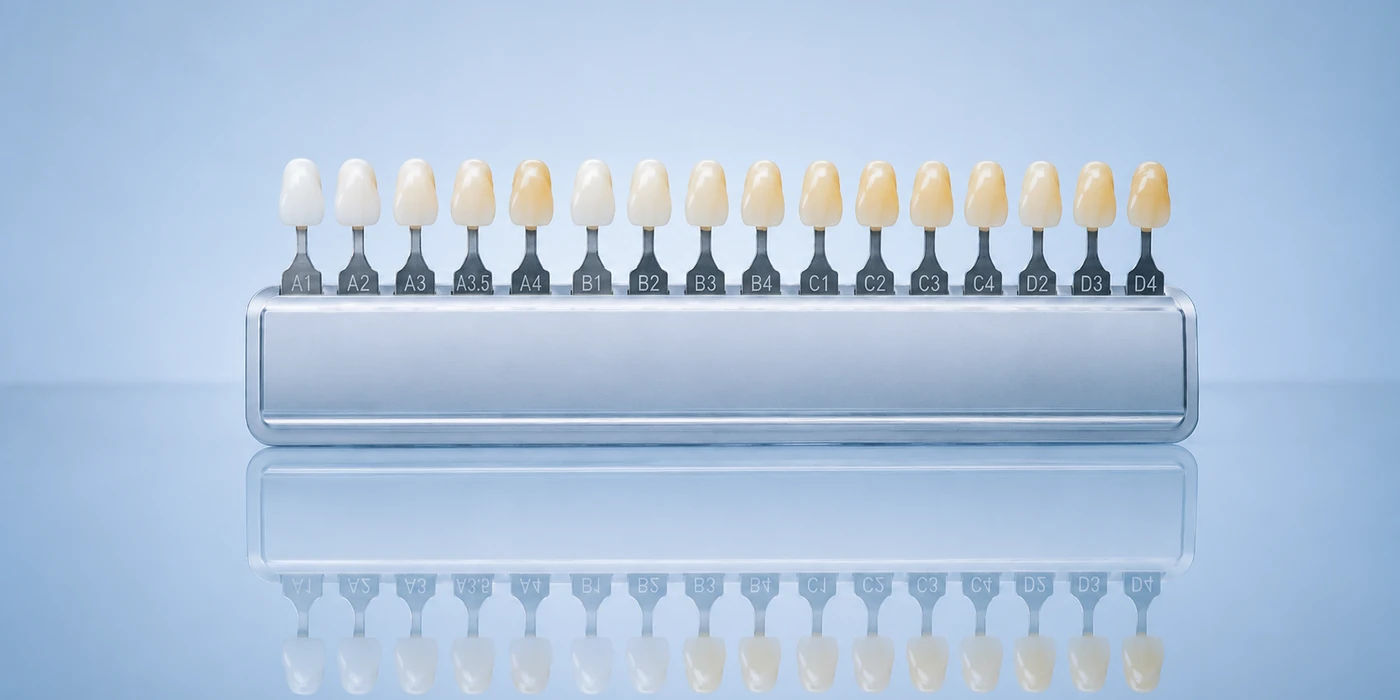
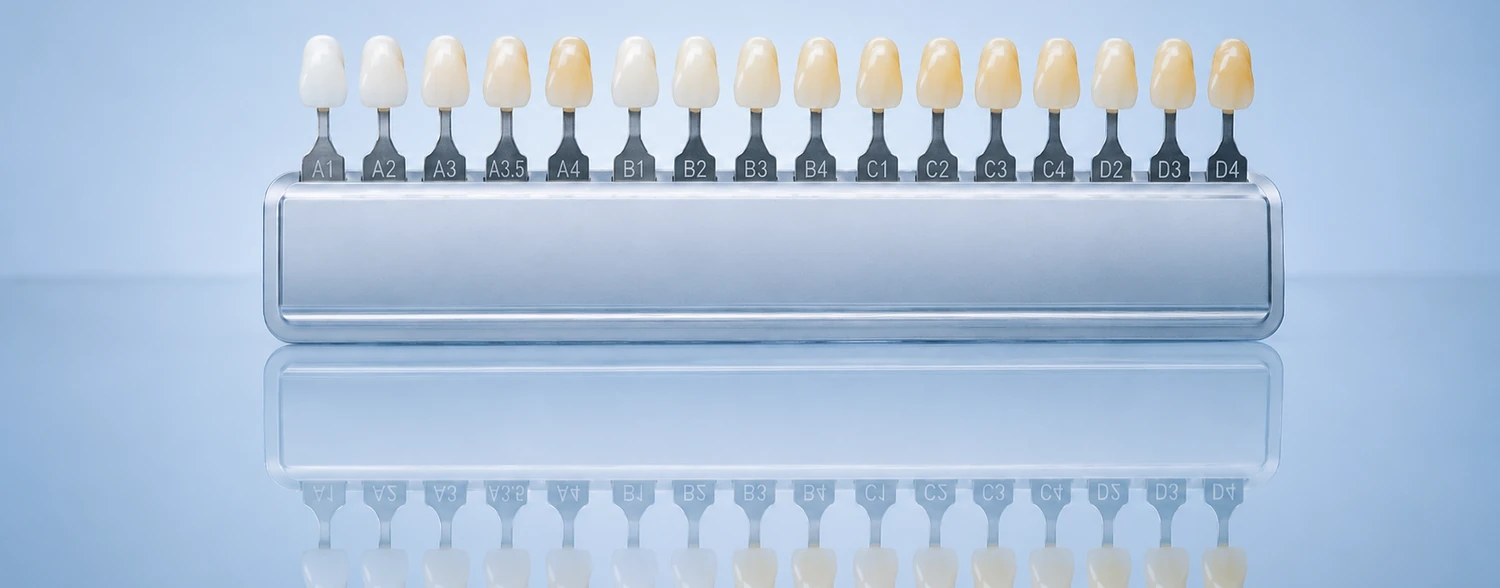
Leistungen: Spiegelungen der Auftaktbilder bleiben jetzt sichtbar
Die Bilder waren auf 2:1 zugeschnitten, der Rahmen auf der Seite hat
aber 2,55:1 und schnitt oben und unten je rund 80 Pixel nach. Genau
dort lag die Spiegelung, die den Bildern ihre Ruhe gibt. Alle fuenf
neuen Auftaktbilder sind jetzt im tatsaechlichen Rahmenverhaeltnis
zugeschnitten und um Objekt samt Spiegelung zentriert, sodass nichts
mehr nachgeschnitten wird.

Ausserdem: Der Block Funktion bekommt die kuehle, zur Reihe passende
Aufnahme der Schiene an der Aufbewahrungsbox.

diff --git a/leistungen.html b/leistungen.html
@@ -726,7 +726,7 @@ a.sbl:hover{color:#E2C26A !important}
       <div data-show="showFunktion">
         <div style="display:flex;flex-direction:column;gap:24px">
           <div style="position:relative;width:100%;height:320px;margin-bottom:20px">
-            <img id="lsta-funktion" src="assets/img-lsta-funktion.webp" alt="Transparente Zahnschiene" loading="lazy" style="position:absolute;inset:0;width:100%;height:100%;display:block;object-fit:cover;border-radius:16px">
+            <img id="lsta-funktion" src="assets/img-lsta-funktion-v2.webp" alt="Zahnschiene wird aus der Aufbewahrungsbox genommen" loading="lazy" style="position:absolute;inset:0;width:100%;height:100%;display:block;object-fit:cover;object-position:50% 50%;border-radius:16px">
           </div>
           <div style="font-size:12px;letter-spacing:1.5px;text-transform:uppercase;color:#A88338;font-weight:600;font-family:'Quicksand',sans-serif">Funktion und Zahnschienen</div>
           <h2 style="margin:0;font-family:'Quicksand',sans-serif;font-size:30px;font-weight:400;color:#37538E">Knirschen ist keine Krankheit. Beschwerden schon.</h2>
